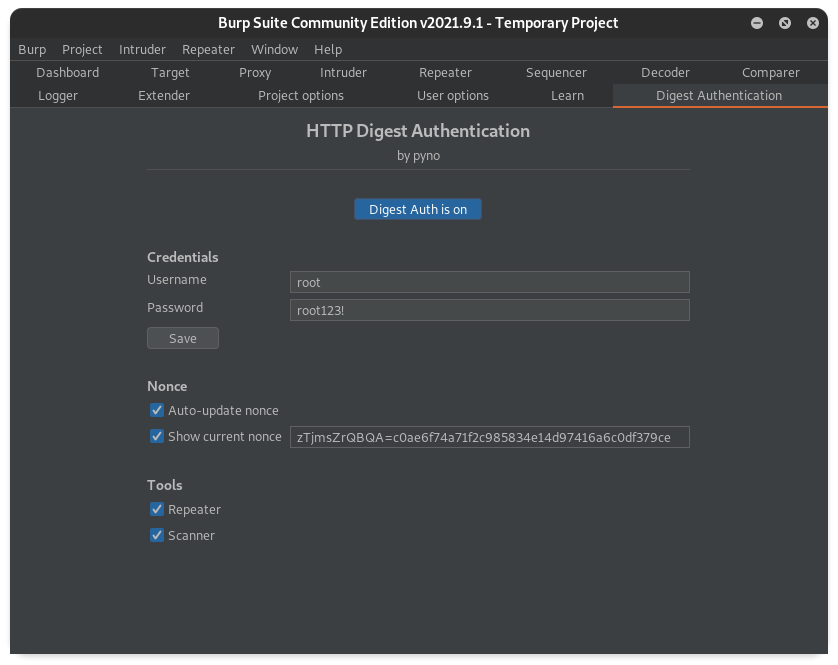
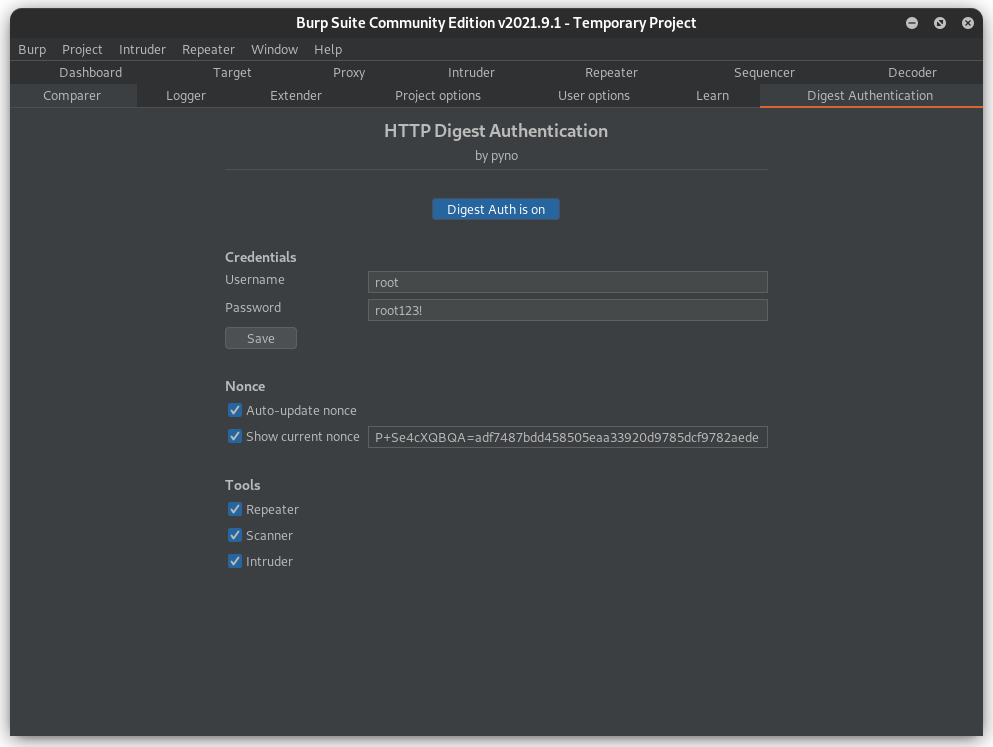
Implemented nonce-count increment. Need to refactor!

Changed region(s): [[0.0, 0.0, 1.0, 1.0], [0.1551, 0.3308, 0.8067, 0.812], [0.3413, 0.3609, 0.7757, 0.4812]]

diff --git a/auth/digest_auth.py b/auth/digest_auth.py
@@ -5,7 +5,7 @@ import os
 #from urllib.parse import urlparse
 from urlparse import urlparse
 
-class DigestAuthentication:
+class DigestAuthentication(object):
 
     def __init__(self, username, password, method = "GET", uri = "", header_str=None):
         self.header_list = ['username' , 'realm' , 'cnonce' , 'nonce' , 'nc' , 'uri' , 'algorithm' , 'response' , 'qop', 'opaque', 'entdig']
@@ -15,7 +15,7 @@ class DigestAuthentication:
         self.uri = uri
         self.realm = None
         self.cnonce = None
-        self.nonce = None
+        self._nonce = None
         self.nc = None
         self.uri = None
         self.algorithm = None
@@ -48,9 +48,11 @@ class DigestAuthentication:
             elif 'cnonce' in key:
                 self.cnonce = val
             elif 'nonce' in key:
-                self.nonce = val
+                if not self._nonce:
+                    self._nonce = val
             elif 'nc' in key:
-                self.nc = val
+                if not self.nc:
+                    self.nc = int(val,16)
             elif 'uri' in key:
                 self.uri = val
             elif 'algorithm' in key:
@@ -66,6 +68,17 @@ class DigestAuthentication:
         header_string += ', '.join('{0}="{1}"'.format(header,self.__dict__[header]) for header in self.header_list) 
         logging.debug('Header string: {}'.format(header_string))
         return header_string
+
+
+    def set_nonce(self, nonce):
+        if self._nonce != nonce:
+            logging.debug("SETTING NONCE {} ==> {}".format(self._nonce, nonce))
+            self._nonce = nonce
+            self.nc = 0
+
+
+    def get_nonce(self):
+        return self._nonce
 
 
     def build_digest_header(self):
@@ -119,38 +132,36 @@ class DigestAuthentication:
         HA1 = hash_utf8(A1)
         HA2 = hash_utf8(A2)
 
-        # TODO: update nonce count
-        #if nonce == self._thread_local.last_nonce:
-        #    self._thread_local.nonce_count += 1
-        #else:
-        #    self._thread_local.nonce_count = 1
-        #ncvalue = '%08x' % self._thread_local.nonce_count
-        #s = str(self._thread_local.nonce_count).encode('utf-8')
+        # Update nonce count
+        # The module sets nc to zero when a new nonce is set
+        # so here we just need to increment
+        self.nc += 1
+
         s = str(self.nc).encode('utf-8')
-        s += self.nonce.encode('utf-8')
+        s += self._nonce.encode('utf-8')
         s += time.ctime().encode('utf-8')
         s += os.urandom(8)
 
         self.cnonce = (hashlib.sha1(s).hexdigest()[:16])
         if _algorithm == 'MD5-SESS':
-            HA1 = hash_utf8('%s:%s:%s' % (HA1, self.nonce, self.cnonce))
+            HA1 = hash_utf8('%s:%s:%s' % (HA1, self._nonce, self.cnonce))
 
         if not self.qop:
-            self.response = KD(HA1, "%s:%s" % (self.nonce, HA2))
+            self.response = KD(HA1, "%s:%s" % (self._nonce, HA2))
         elif self.qop == 'auth' or 'auth' in self.qop.split(','):
+            # XXX: Should nc be reppresented as hex in the header string?? - hex(self.nc)
+            #      Should it be reppresented as a fixed size number (e.g. 0000002c)
             noncebit = "%s:%s:%s:%s:%s" % (
-                self.nonce, self.nc, self.cnonce, 'auth', HA2
+                self._nonce, self.nc, self.cnonce, 'auth', HA2
             )
             self.response = KD(HA1, noncebit)
         else:
             # XXX handle auth-int.
             return None
 
-        #self._thread_local.last_nonce = nonce
-
         # XXX should the partial digests be encoded too?
         base = 'username="%s", realm="%s", nonce="%s", uri="%s", ' \
-               'response="%s"' % (self.username, self.realm, self.nonce, path, self.response)
+               'response="%s"' % (self.username, self.realm, self._nonce, path, self.response)
         if self.opaque:
             base += ', opaque="%s"' % self.opaque
         if self.algorithm:

diff --git a/http-digest-auth.py b/http-digest-auth.py
@@ -14,7 +14,7 @@ from auth.digest_auth import DigestAuthentication
 _reauth_counter = 0
 _reauth_lock = Lock()
 
-DEV = True
+DEV = False
 if DEV:
     logging.basicConfig(level=logging.DEBUG)
 else:
@@ -33,6 +33,7 @@ class BurpExtender(IBurpExtender, IHttpListener, IProxyListener, ITab, IExtensio
         callbacks.registerHttpListener(self)
 
         # setup default username and password
+        logging.debug("New DigestAuthentication object")
         self._auth = DigestAuthentication("root","root123!")
         self._saved_nonce = None
         self._need_reauth = True
@@ -66,7 +67,8 @@ class BurpExtender(IBurpExtender, IHttpListener, IProxyListener, ITab, IExtensio
         if auth_header:
             response_digest_auth = DigestAuthentication(self._auth.username, self._auth.password, 
                     self._auth.method, self._auth.uri, auth_header)
-            self._saved_nonce = response_digest_auth.nonce
+            self._saved_nonce = response_digest_auth.get_nonce()
+            logging.debug("New saved nonce: {}".format(self._saved_nonce))
             self._ui.update_nonce()
 
             logging.debug("Building updated request")
@@ -78,11 +80,15 @@ class BurpExtender(IBurpExtender, IHttpListener, IProxyListener, ITab, IExtensio
             new_headers = []
             for header in headers:
                 if 'Authorization: Digest' in header:
+                    logging.debug("Updating nonce")
                     self._auth.parse_auth_header(header)
-                    self._auth.nonce = self._saved_nonce
+                    logging.debug("2")
+                    self._auth.set_nonce(self._saved_nonce)
                     self._auth.uri = uri
                     self._auth.method = method
-                    new_headers.append(self._auth.build_digest_header())
+                    header_str = self._auth.build_digest_header()
+                    logging.debug("New header: {}".format(header_str))
+                    new_headers.append(header_str)
                 else:
                     new_headers.append(header)
 
@@ -137,9 +143,10 @@ class BurpExtender(IBurpExtender, IHttpListener, IProxyListener, ITab, IExtensio
             if 'Authorization: Digest' in h:
                 self._auth.parse_auth_header(h)
                 if self._saved_nonce != None:
-                    self._auth.nonce = self._saved_nonce
+                    logging.debug("1")
+                    self._auth.set_nonce(self._saved_nonce)
                 else:
-                    self._saved_nonce = self._auth.nonce
+                    self._saved_nonce = self._auth.get_nonce()
                 self._auth.uri = uri
                 self._auth.method = method
                 new_headers.append(self._auth.build_digest_header())

diff --git a/README.md b/README.md
@@ -27,7 +27,4 @@ Currently the tools supports the following features:
 
 and it works with Repeater, Scanner and Intruder tools.
 
-Missing features a.k.a. TODO:
-- Auto-increment of nonce count
-
 **Last but not least**: PRs are always welcome!
